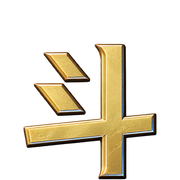
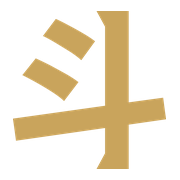
style(vue): 网站图标改用平面字标的“斗”，居中并放大
从 haidou-wordmark-flat.svg 取出“斗”，裁掉透明边后在正方形中水平、垂直置中；
16、32px 不留边距。原图标为旧字体且上方留白过多，标签栏里偏下、偏小。
图标地址 ?v=2 → ?v=3 以避开浏览器缓存；生成脚本见 python/tools/design/make_favicon.py。

diff --git a/index.html b/index.html
@@ -4,9 +4,9 @@
     <meta charset="UTF-8" />
     <meta name="viewport" content="width=device-width, initial-scale=1, viewport-fit=cover" />
     <meta name="color-scheme" content="dark light" />
-    <link rel="icon" type="image/png" sizes="512x512" href="/favicon-dou.png?v=2" />
-    <link rel="icon" type="image/x-icon" href="/favicon.ico?v=2" />
-    <link rel="apple-touch-icon" sizes="180x180" href="/apple-touch-icon.png?v=2" />
+    <link rel="icon" type="image/png" sizes="512x512" href="/favicon-dou.png?v=3" />
+    <link rel="icon" type="image/x-icon" href="/favicon.ico?v=3" />
+    <link rel="apple-touch-icon" sizes="180x180" href="/apple-touch-icon.png?v=3" />
     <link
       rel="preload"
       as="image"
